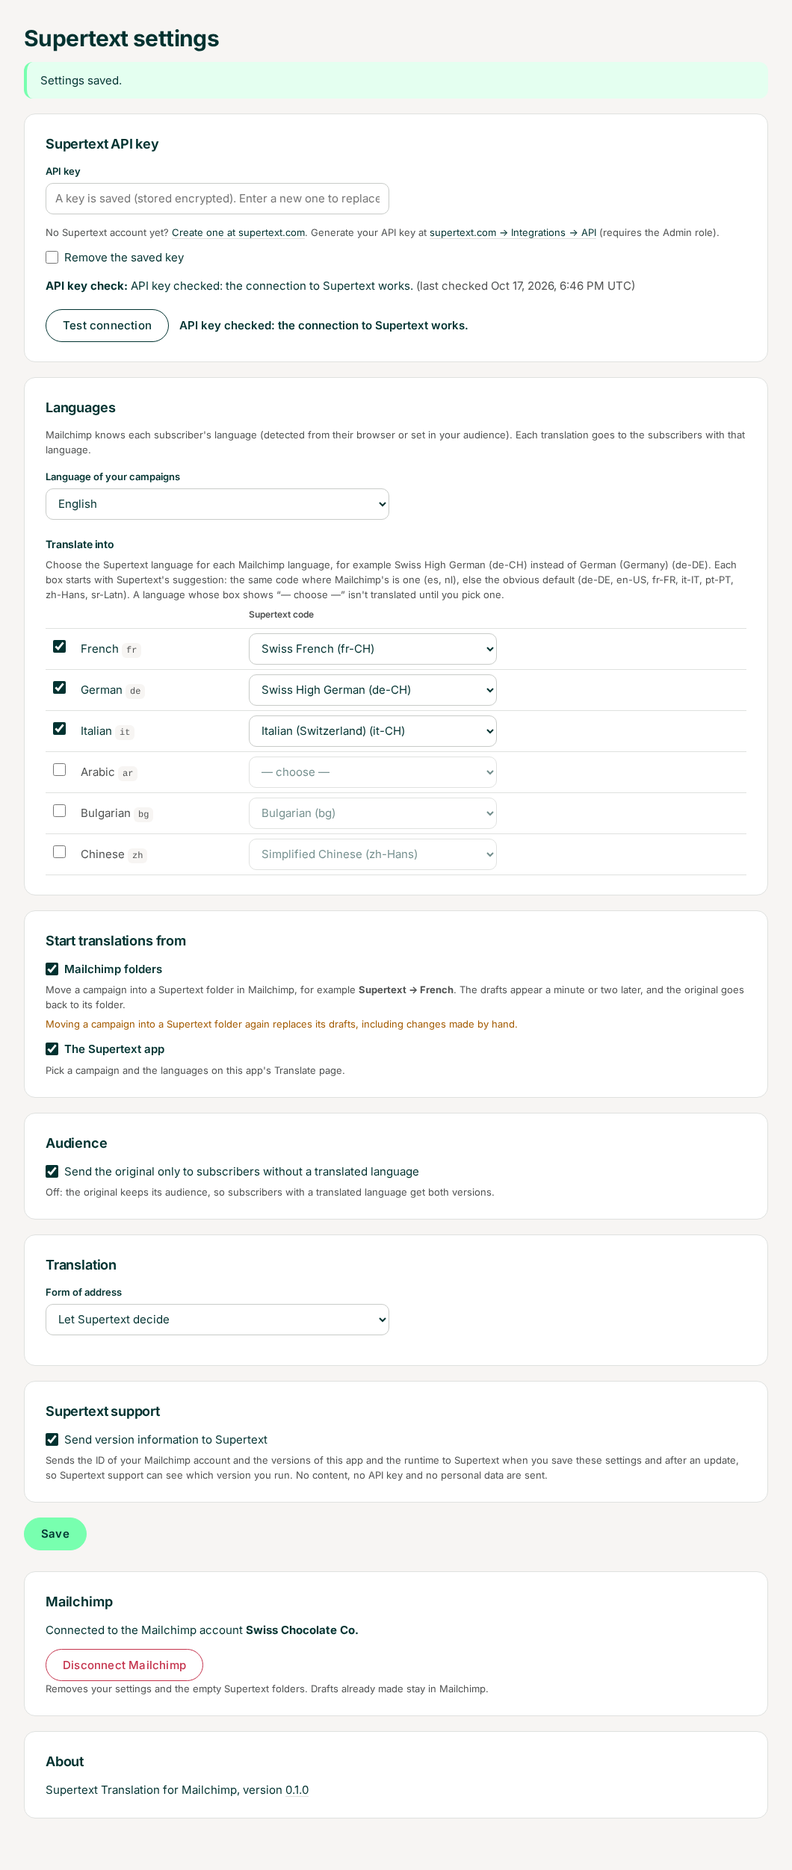
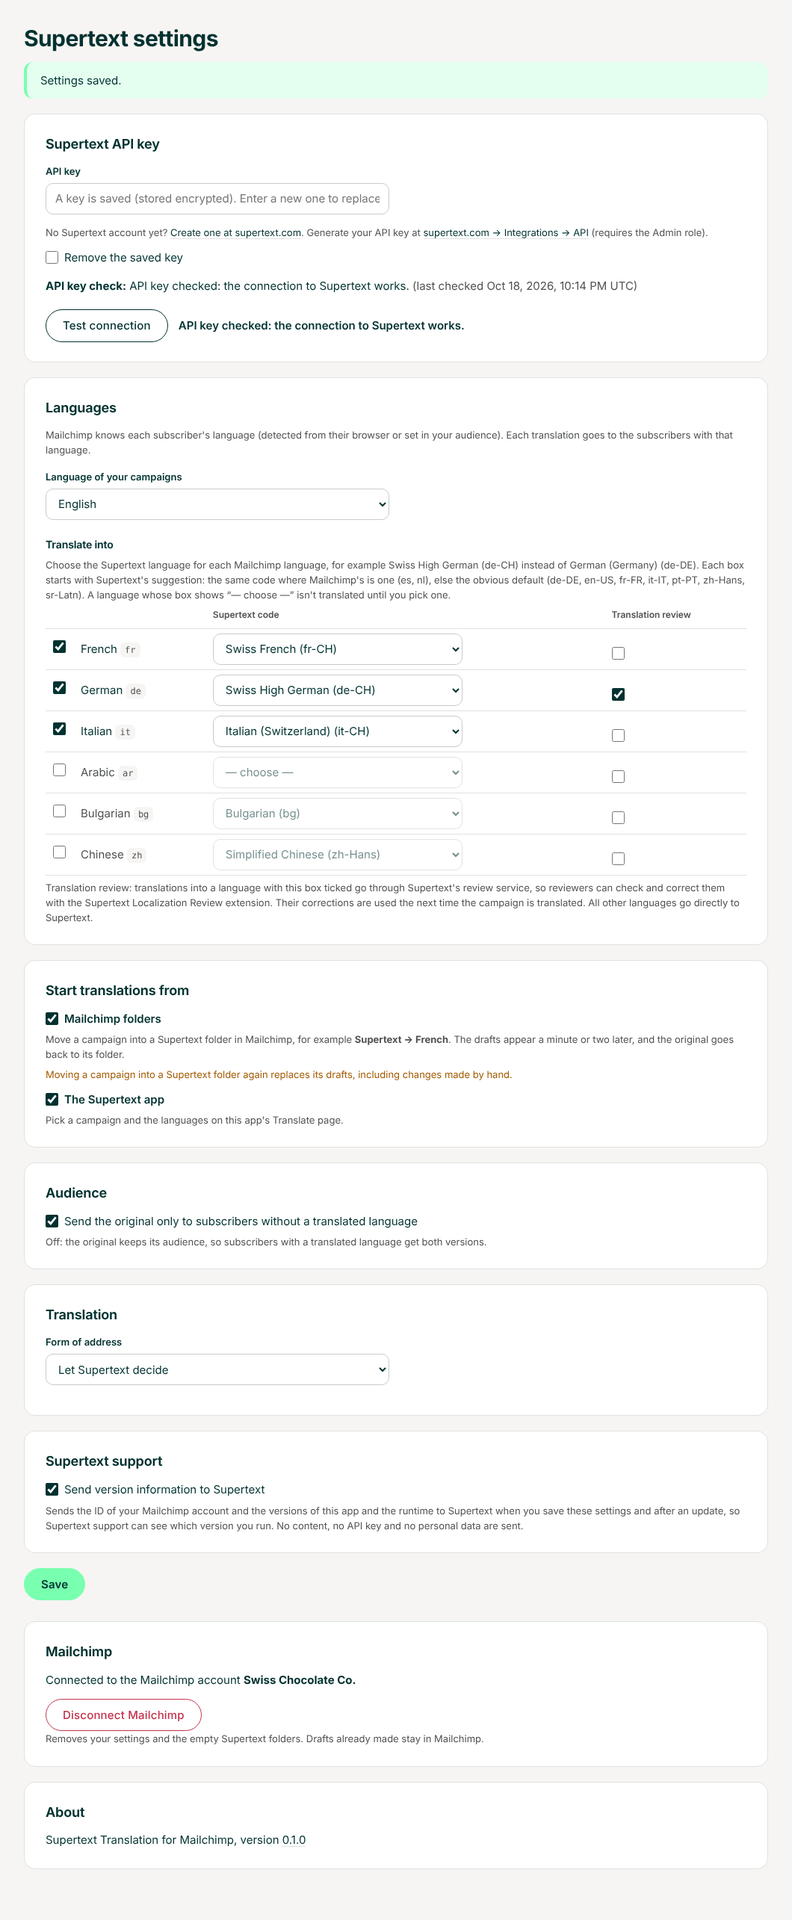
Translation review: on/off per language
Translations into a language with "Translation review" ticked (Settings →
Languages, a checkbox next to the Supertext code) go through Supertext's
review service (the Localization Review translation proxy), where reviewers
correct them; corrections come back into the draft with the next
translation. Other languages keep going directly to Supertext. New server
setting SUPERTEXT_REVIEW_URL (default: Supertext's review service, '' = off
for every account and the column hidden), Account.reviewLanguages (stored in
the account JSON, existing accounts start with review off), a second SDK
client per account (SupertextClient.forReview) with the same key, timeouts,
fetch and User-Agent; key check, reports and translation files stay direct.
Strings in en/de/fr/it, tests, docs and the settings screenshot.

Claude-Session: https://claude.ai/code/session_01EnSTWcWHurd9UcMU2SVApV

diff --git a/tests/supertext.test.ts b/tests/supertext.test.ts
@@ -1,5 +1,6 @@
 import { describe, expect, it } from 'vitest';
-import { fromSdk, SupertextClient } from '../src/supertext/client.js';
+import { fromSdk, REVIEW_URL, SupertextClient } from '../src/supertext/client.js';
+import { loadConfig } from '../src/config.js';
 import { SupertextError as SdkError } from 'supertext-sdk/v1';
 
 // The protocol itself is tested in the SDK repository; here only the app's layer.
@@ -64,5 +65,63 @@ describe('the app layer over the Supertext SDK', () => {
       .catch((e: unknown) => e)) as { code: string; params: Record<string, string> };
     expect(error.code).toBe('languagePair');
     expect(error.params).toEqual({ source: 'en', target: 'xx-XX' });
+  });
+
+  describe('Translation review', () => {
+    /** A fake Supertext that records every call (method and URL) and translates "Hello". */
+    const recorder = () => {
+      const calls: string[] = [];
+      let html = '';
+      const fetchFn = (async (url: string, init: RequestInit) => {
+        calls.push(`${init.method ?? 'GET'} ${url}`);
+        const headers = init.headers as Record<string, string>;
+        if (init.method === 'POST') {
+          const form = await new Request(url, { method: 'POST', body: init.body, headers }).formData();
+          html = await (form.get('file') as File).text();
+          return Response.json({ file_id: 'f1' });
+        }
+        if (url.endsWith('/status')) return Response.json({ status: 'done' });
+        if (url.endsWith('/translation')) return new Response(html.replace(/>Hello</g, '>Hallo<'));
+        return Response.json({});
+      }) as unknown as typeof fetch;
+      return { calls, fetchFn };
+    };
+
+    it('sends a review language to the review service (upload, status, download, delete) and the others directly', async () => {
+      const { calls, fetchFn } = recorder();
+      const client = new SupertextClient({ apiKey: 'k', endpoint: 'https://api.test/v1/', reviewEndpoint: 'https://review.test/v1/', fetch: fetchFn });
+      const review = client.forReview(true);
+      expect(review).not.toBe(client);
+      expect(client.forReview(true)).toBe(review); // created once
+      expect(client.forReview(false)).toBe(client);
+
+      expect(await review.translateSegments(['Hello'], { targetLanguage: 'de-CH', sourceLanguage: 'en' })).toEqual(['Hallo']);
+      expect(calls.length).toBeGreaterThanOrEqual(4);
+      expect(calls.every((call) => call.includes('https://review.test/v1/'))).toBe(true);
+      for (const step of [/^POST .*\/translate\/ai\/file$/, /^GET .*\/status$/, /^GET .*\/translation$/, /^DELETE /]) {
+        expect(calls.some((call) => step.test(call))).toBe(true);
+      }
+
+      calls.length = 0;
+      await client.translateSegments(['Hello'], { targetLanguage: 'fr-CH', sourceLanguage: 'en' });
+      expect(calls.length).toBeGreaterThanOrEqual(4);
+      expect(calls.every((call) => call.includes('https://api.test/v1/'))).toBe(true);
+    });
+
+    it('is off without a review URL or when it is the API URL', () => {
+      const client = new SupertextClient({ apiKey: 'k', endpoint: 'https://api.test/v1/', reviewEndpoint: '' });
+      expect(client.forReview(true)).toBe(client);
+      const same = new SupertextClient({ apiKey: 'k', endpoint: 'https://api.test/v1', reviewEndpoint: 'https://api.test/v1/' });
+      expect(same.forReview(true)).toBe(same);
+      const live = new SupertextClient({ apiKey: 'k', reviewEndpoint: 'https://api.supertext.com/v1/' });
+      expect(live.forReview(true)).toBe(live);
+    });
+
+    it("defaults to Supertext's review service; SUPERTEXT_REVIEW_URL='' turns it off", () => {
+      expect(REVIEW_URL).toBe('https://localizationreview-production.up.railway.app/v1/');
+      expect(loadConfig({}).reviewUrl).toBe(REVIEW_URL);
+      expect(loadConfig({ SUPERTEXT_REVIEW_URL: '' }).reviewUrl).toBe('');
+      expect(loadConfig({ SUPERTEXT_REVIEW_URL: 'https://review.test/v1/' }).reviewUrl).toBe('https://review.test/v1/');
+    });
   });
 });

diff --git a/src/supertext/client.ts b/src/supertext/client.ts
@@ -6,13 +6,22 @@
  */
 
 import { LocalizedError, type MessageParams } from '../i18n/error.js';
-import { SupertextClient as SdkClient, SupertextError as SdkError, type ApiKeyCheck, type FetchLike } from 'supertext-sdk/v1';
+import { LIVE_BASE_URL, SupertextClient as SdkClient, SupertextError as SdkError, type ApiKeyCheck, type FetchLike } from 'supertext-sdk/v1';
 import { VERSION } from '../version.js';
 
 export { retryDelayMs } from 'supertext-sdk/v1';
 
 /** The User-Agent suffix of every Supertext request (the GitHub repository name and version). */
 export const USER_AGENT = `Mailchimp-Supertext-Translation/${VERSION || 'dev'}`;
+
+/**
+ * Supertext's review service (the translation proxy of Supertext Localization Review). It speaks
+ * the same API v1 and forwards to the live Supertext API with the account's key, keeping every
+ * translation so reviewers can correct them; corrections come back with the next translation.
+ * Used for languages with *Translation review* on (Settings → Languages). SUPERTEXT_REVIEW_URL
+ * replaces it ('' = review off for every language).
+ */
+export const REVIEW_URL = 'https://localizationreview-production.up.railway.app/v1/';
 
 /** `more`: formal address (Sie, vous, Lei). `less`: informal (du, tu). `default`: Supertext decides. */
 export type Politeness = 'default' | 'more' | 'less';
@@ -23,6 +32,8 @@ export interface ClientOptions {
   endpoint?: string;
   pollIntervalMs?: number;
   pollTimeoutMs?: number;
+  /** The review service for languages with Translation review on ('' or unset = none). */
+  reviewEndpoint?: string;
   /** Injected for tests. */
   fetch?: typeof fetch;
   /** Injected for tests. */
@@ -51,11 +62,14 @@ export class SupertextError extends LocalizedError {
 
 export class SupertextClient {
   private readonly client: SdkClient;
+  private readonly options: ClientOptions;
+  private reviewClient?: SupertextClient;
 
   constructor(options: ClientOptions) {
     if (!options.apiKey?.trim()) {
       throw new SupertextError('No Supertext API key configured.', 'noApiKey');
     }
+    this.options = options;
     this.client = new SdkClient(options.apiKey, {
       baseUrl: options.endpoint || undefined,
       pollIntervalMs: options.pollIntervalMs,
@@ -64,6 +78,21 @@ export class SupertextClient {
       fetch: options.fetch as FetchLike | undefined,
       sleep: options.sleep,
     });
+  }
+
+  /**
+   * The client for one target language: the review service when the language has Translation
+   * review on (same key, timeouts, transport and User-Agent; created once), else this one.
+   * Without a review URL, or with the same URL as the API, always this one. A document is
+   * submitted, polled, downloaded and deleted by the same client (translateSegments does the
+   * whole round trip), so a job is always collected where it was submitted.
+   */
+  forReview(review: boolean): SupertextClient {
+    const reviewUrl = (this.options.reviewEndpoint ?? '').trim();
+    const same = (a: string, b: string) => a.replace(/\/+$/, '') === b.replace(/\/+$/, '');
+    if (!review || !reviewUrl || same(reviewUrl, this.options.endpoint || LIVE_BASE_URL)) return this;
+    this.reviewClient ??= new SupertextClient({ ...this.options, endpoint: reviewUrl, reviewEndpoint: '' });
+    return this.reviewClient;
   }
 
   /**

diff --git a/tests/flow.test.ts b/tests/flow.test.ts
@@ -260,6 +260,47 @@ describe('translating from the app', () => {
     expect(env.supertext.documents.map((d) => d.target)).toEqual(['de-CH']);
   });
 
+  it('sends languages with Translation review through the review service and the others directly', async () => {
+    const env = setup();
+    await env.connect();
+    await env.saveSettings([...STANDARD_SETTINGS, ['review', 'de']]);
+    expect((await env.store.getAccount(ACCOUNT_ID))!.reviewLanguages).toEqual(['de']);
+    const settings = await (await env.request('/settings')).text();
+    expect(settings).toContain('Translation review');
+    expect(settings).toMatch(/<input type="checkbox" name="review" value="de" checked=""/);
+    expect(settings).toMatch(/<input type="checkbox" name="review" value="fr"(?! checked)/);
+    const { id } = await (await env.api('POST', '/api/jobs', { campaignId: 'c-autumn', languages: ['de', 'fr'] })).json();
+    await env.settle();
+    expect((await env.store.getJob(ACCOUNT_ID, id))!.items.map((item) => [item.language, item.state])).toEqual([
+      ['de', 'created'],
+      ['fr', 'created'],
+    ]);
+    const translate = env.supertextRequests.filter((call) => /\/translate\//.test(call));
+    const review = translate.filter((call) => call.includes('://review.test/v1/'));
+    const direct = translate.filter((call) => call.includes('://supertext.test/v1/'));
+    // de: upload, status, download and delete all at the review service; fr directly at Supertext.
+    for (const calls of [review, direct]) {
+      for (const step of [/^POST .*\/translate\/ai\/file$/, /^GET .*\/status$/, /^GET .*\/translation$/, /^DELETE /]) {
+        expect(calls.some((call) => step.test(call))).toBe(true);
+      }
+    }
+    expect(env.supertext.documents.map((d) => d.target)).toEqual(['de-CH', 'fr-CH']);
+    expect(review.length + direct.length).toBe(translate.length);
+    // The API key check never goes to the review service.
+    expect(env.supertextRequests.filter((call) => call.includes('/features')).every((call) => call.includes('supertext.test'))).toBe(true);
+  });
+
+  it("hides Translation review and sends everything directly when SUPERTEXT_REVIEW_URL is ''", async () => {
+    const env = setup({ SUPERTEXT_REVIEW_URL: '' });
+    await env.connect();
+    await env.saveSettings([...STANDARD_SETTINGS, ['review', 'de']]);
+    expect(await (await env.request('/settings')).text()).not.toContain('name="review"');
+    await env.api('POST', '/api/jobs', { campaignId: 'c-autumn', languages: ['de'] });
+    await env.settle();
+    expect(env.supertextRequests.length).toBeGreaterThan(0);
+    expect(env.supertextRequests.every((call) => call.includes('://supertext.test/'))).toBe(true);
+  });
+
   it('uses the SDK default for a language nobody mapped and preselects it', async () => {
     const env = setup();
     await env.connect();

diff --git a/tests/helpers.ts b/tests/helpers.ts
@@ -11,11 +11,15 @@ export function setup(env: Record<string, string> = {}) {
   const mailchimp = createMailchimpStandin('https://mailchimp.test');
   const supertext = createSupertextStandin();
   const store = new MemoryStore();
+  /** Every request to Supertext or its review service (method and URL), in order. */
+  const supertextRequests: string[] = [];
   const fetchFn = (async (input: string | URL | Request, init?: RequestInit) => {
     const request = new Request(input, init);
     const host = new URL(request.url).host;
     if (host === 'mailchimp.test') return mailchimp.handle(request);
-    if (host === 'supertext.test' || host === 'center.test') return supertext.handle(request);
+    if (host === 'supertext.test' || host === 'review.test') supertextRequests.push(`${request.method} ${request.url}`);
+    // review.test: the review service (it speaks the same API, so the stand-in answers it too).
+    if (host === 'supertext.test' || host === 'review.test' || host === 'center.test') return supertext.handle(request);
     throw new Error(`Unexpected request to ${request.url}`);
   }) as typeof fetch;
   const config = loadConfig({
@@ -26,6 +30,7 @@ export function setup(env: Record<string, string> = {}) {
     SESSION_SECRET: 'session-secret',
     SUPERTEXT_API_ENDPOINT: 'https://supertext.test/v1/',
     SUPERTEXT_API_KEY: 'server-key',
+    SUPERTEXT_REVIEW_URL: 'https://review.test/v1/',
     // Version reports go to the stand-in (supertext.reports), never to the live Commando Center.
     SUPERTEXT_REPORT_URL: 'https://center.test/api/v1/report',
     FOLDER_POLL_SECONDS: '0',
@@ -95,7 +100,7 @@ export function setup(env: Record<string, string> = {}) {
   const clearCookies = () => {
     cookies = {};
   };
-  return { app, mailchimp, supertext, store, config, request, connect, csrf, api, saveSettings, settle, onJob, fetchFn, clearCookies };
+  return { app, mailchimp, supertext, supertextRequests, store, config, request, connect, csrf, api, saveSettings, settle, onJob, fetchFn, clearCookies };
 }
 
 /** The usual settings: German and French, folders and app, original limited. */

diff --git a/src/views/settings.tsx b/src/views/settings.tsx
@@ -62,6 +62,8 @@ export interface SettingsPageProps {
   reportsEnabled: boolean;
   /** SUPERTEXT_VERSION_REPORTS decides, so the checkbox can't be changed. */
   reportsFixed: boolean;
+  /** A review service is configured (SUPERTEXT_REVIEW_URL isn't ''): the Translation review column is shown. */
+  reviewAvailable: boolean;
   saved?: boolean;
   invalidCodes?: string;
   foldersError?: string;
@@ -174,6 +176,7 @@ export function SettingsPage(props: SettingsPageProps) {
                 <th></th>
                 <th></th>
                 <th>{t.t('settings.languages.code')}</th>
+                {props.reviewAvailable && <th>{t.t('settings.languages.review')}</th>}
               </tr>
             </thead>
             <tbody>
@@ -209,11 +212,26 @@ export function SettingsPage(props: SettingsPageProps) {
                         ))}
                       </select>
                     </td>
+                    {props.reviewAvailable && (
+                      <td class="review">
+                        <label class="inline">
+                          <input
+                            type="checkbox"
+                            name="review"
+                            value={code}
+                            checked={account.reviewLanguages.includes(code)}
+                            aria-label={`${t.t('settings.languages.review')}: ${languageName(code, t.locale)}`}
+                          />
+                          <span class="review-label">{t.t('settings.languages.review')}</span>
+                        </label>
+                      </td>
+                    )}
                   </tr>
                 );
               })}
             </tbody>
           </table>
+          {props.reviewAvailable && <p class="help">{t.t('settings.languages.reviewHint')}</p>}
         </section>
 
         <section class="card">

diff --git a/public/app.css b/public/app.css
@@ -131,6 +131,8 @@ a.badge.done:hover { text-decoration: none; background: var(--mint-hover); }
 .codes tr.other select { opacity: .55; }
 .codes tr.chosen.missing select { border-color: var(--red); }
 .codes td code.muted { font-size: 12px; color: var(--muted); }
+.codes td.review { text-align: center; }
+.codes td.review .review-label { display: none; }
 #test-result.ok { color: var(--text); font-weight: 600; }
 #test-result.failed { color: var(--red); }
 .about p, .connection p { margin: 0; }
@@ -164,12 +166,14 @@ body { overflow-x: hidden; }
   .language { width: 100%; }
   /* Languages table: checkbox and name, the Supertext code below. */
   .codes thead { display: none; }
-  .codes tr { display: grid; grid-template-columns: 32px 1fr; grid-template-areas: "check name" "check code"; column-gap: 8px; row-gap: 6px; align-items: center; padding: 10px 0; border-bottom: 1px solid var(--line); }
+  .codes tr { display: grid; grid-template-columns: 32px 1fr; grid-template-areas: "check name" "check code" "check review"; column-gap: 8px; row-gap: 6px; align-items: center; padding: 10px 0; border-bottom: 1px solid var(--line); }
   .codes tr:last-child { border-bottom: 0; }
   .codes td { padding: 0; border: 0; }
   .codes td:nth-child(1) { grid-area: check; align-self: start; padding-top: 3px; }
   .codes td:nth-child(2) { grid-area: name; }
   .codes td:nth-child(3) { grid-area: code; }
+  .codes td:nth-child(4) { grid-area: review; text-align: left; }
+  .codes td.review .review-label { display: inline; font-size: 14px; }
   .codes select { max-width: none; font-size: 15px; min-height: 40px; }
   /* The campaign table scrolls inside its card instead of widening the page. */
   table.items { display: block; overflow-x: auto; -webkit-overflow-scrolling: touch; }

diff --git a/src/app.ts b/src/app.ts
@@ -44,6 +44,7 @@ export function services(deps: AppDeps) {
     new SupertextClient({
       apiKey: account.apiKey || config.supertextApiKey,
       endpoint: config.supertextEndpoint || undefined,
+      reviewEndpoint: config.reviewUrl,
       fetch: deps.fetch,
     });
   const reporting = new Reporting({ config, store: deps.store, fetch: deps.fetch, onTask: deps.onJob });
@@ -376,6 +377,7 @@ export function createApp(deps: AppDeps) {
           serverKey: Boolean(config.supertextApiKey),
           reportsEnabled: reporting.enabled(session.account),
           reportsFixed: reporting.fixedByEnvironment,
+          reviewAvailable: Boolean(config.reviewUrl),
           saved: c.req.query('saved') === '1',
           invalidCodes: c.req.query('invalid') || undefined,
           foldersError: c.req.query('folders') || undefined,
@@ -418,6 +420,8 @@ export function createApp(deps: AppDeps) {
       else invalid.push(code);
     }
     account.languageCodes = codes;
+    const review = form.review === undefined ? [] : Array.isArray(form.review) ? form.review : [form.review];
+    account.reviewLanguages = [...new Set(review.map(String))].filter((code) => isLanguage(code));
     if (!reporting.fixedByEnvironment) account.versionReports = field('versionReports') === '1';
     account.folderTrigger = field('folderTrigger') === '1';
     account.appTrigger = field('appTrigger') === '1';

diff --git a/tests/docs/screenshots.ts b/tests/docs/screenshots.ts
@@ -34,6 +34,8 @@ async function main() {
   const mailchimpUrl = await listen((request) => mailchimp.handle(request));
   mailchimp.apiBase = mailchimpUrl;
   const supertextUrl = await listen((request) => supertext.handle(request));
+  // The review service speaks the same API: a second address of the same stand-in, never the live one.
+  const reviewUrl = await listen((request) => supertext.handle(request));
   const port = 8790;
   const appUrl = `http://127.0.0.1:${port}`;
   const app = createApp({
@@ -43,6 +45,7 @@ async function main() {
       MAILCHIMP_CLIENT_SECRET: 'screenshots-secret',
       MAILCHIMP_LOGIN_BASE: mailchimpUrl,
       SUPERTEXT_API_ENDPOINT: `${supertextUrl}/v1/`,
+      SUPERTEXT_REVIEW_URL: `${reviewUrl}/v1/`,
       // Version reports go to the stand-in, never to the live Commando Center.
       SUPERTEXT_REPORT_URL: `${supertextUrl}/report`,
       FOLDER_POLL_SECONDS: '0',
@@ -72,6 +75,7 @@ async function main() {
   await page.selectOption('select[name="code:de"]', 'de-CH');
   await page.selectOption('select[name="code:fr"]', 'fr-CH');
   await page.selectOption('select[name="code:it"]', 'it-CH');
+  await page.check('input[name="review"][value="de"]');
   await page.click('button.primary');
   await page.waitForSelector('.notice.success');
   await page.click('#test-button');

diff --git a/src/config.ts b/src/config.ts
@@ -1,3 +1,5 @@
+import { REVIEW_URL } from './supertext/client.js';
+
 /** Settings from environment variables (Railway variables in production). */
 export interface Config {
   port: number;
@@ -15,6 +17,11 @@ export interface Config {
   /** Default Supertext API key for accounts that haven't entered their own (the demo account). */
   supertextApiKey: string;
   supertextEndpoint: string;
+  /**
+   * SUPERTEXT_REVIEW_URL: the review service for languages with Translation review on
+   * (default: Supertext's review service, REVIEW_URL; '' = review off for every language).
+   */
+  reviewUrl: string;
   databaseUrl: string;
   /** Key for encrypting stored tokens and API keys; falls back to a key derived from the client secret. */
   encryptionKey: string;
@@ -38,6 +45,7 @@ export function loadConfig(env: NodeJS.ProcessEnv = process.env): Config {
     sessionSecret: env.SESSION_SECRET ?? '',
     supertextApiKey: env.SUPERTEXT_API_KEY ?? '',
     supertextEndpoint: env.SUPERTEXT_API_ENDPOINT ?? '',
+    reviewUrl: (env.SUPERTEXT_REVIEW_URL ?? REVIEW_URL).trim(),
     databaseUrl: env.DATABASE_URL ?? '',
     encryptionKey: env.APP_ENCRYPTION_KEY ?? '',
     versionReports: env.SUPERTEXT_VERSION_REPORTS,

diff --git a/src/i18n/fr.ts b/src/i18n/fr.ts
@@ -153,6 +153,8 @@ export const fr: Messages = {
   'settings.style.more': 'Formelle (p. ex. « vous »)',
   'settings.style.less': 'Informelle (p. ex. « tu »)',
   'settings.languages.choose': "— choisir —",
+  'settings.languages.review': "Révision des traductions",
+  'settings.languages.reviewHint': "Révision des traductions : les traductions vers une langue cochée passent par le service de révision de Supertext, afin que les réviseurs puissent les vérifier et les corriger avec l’extension Supertext Localization Review. Leurs corrections sont reprises lors de la prochaine traduction de la campagne. Toutes les autres langues vont directement à Supertext.",
   'settings.languages.unmapped': "Ces langues n’ont pas encore de langue Supertext et ne sont traduites qu’une fois que vous en avez choisi une dans leur liste sous Langues : {languages}.",
   'settings.languages.sourceUnsupported': "Supertext ne connaît pas {language} comme langue de vos campagnes. Choisissez sa langue Supertext dans sa liste sous Langues (par exemple anglais (États-Unis) (en-US)) ou laissez Supertext détecter la langue.",
   'settings.keyCheck.label': "Vérification de la clé API :",

diff --git a/src/i18n/de.ts b/src/i18n/de.ts
@@ -152,6 +152,8 @@ export const de: Messages = {
   'settings.style.more': 'Formell (z. B. «Sie»)',
   'settings.style.less': 'Informell (z. B. «du»)',
   'settings.languages.choose': "— auswählen —",
+  'settings.languages.review': "Übersetzungsprüfung",
+  'settings.languages.reviewHint': "Übersetzungsprüfung: Übersetzungen in eine Sprache mit diesem Häkchen laufen über den Prüfdienst von Supertext, damit Prüferinnen und Prüfer sie mit der Erweiterung Supertext Localization Review kontrollieren und korrigieren können. Ihre Korrekturen werden beim nächsten Übersetzen der Kampagne übernommen. Alle anderen Sprachen gehen direkt an Supertext.",
   'settings.languages.unmapped': "Diese Sprachen haben noch keine Supertext-Sprache und werden erst übersetzt, wenn Sie unter Sprachen in ihrem Auswahlfeld eine wählen: {languages}.",
   'settings.languages.sourceUnsupported': "Supertext kennt {language} als Sprache Ihrer Kampagnen nicht. Wählen Sie unter Sprachen in ihrem Auswahlfeld die Supertext-Sprache (zum Beispiel Englisch (Vereinigte Staaten) (en-US)) oder lassen Sie Supertext die Sprache erkennen.",
   'settings.keyCheck.label': "Prüfung des API-Schlüssels:",

diff --git a/src/i18n/it.ts b/src/i18n/it.ts
@@ -150,6 +150,8 @@ export const it: Messages = {
   'settings.style.more': 'Formale (p. es. «Lei»)',
   'settings.style.less': 'Informale (p. es. «tu»)',
   'settings.languages.choose': "— scegliere —",
+  'settings.languages.review': "Revisione delle traduzioni",
+  'settings.languages.reviewHint': "Revisione delle traduzioni: le traduzioni in una lingua con questa casella selezionata passano dal servizio di revisione di Supertext, così i revisori possono controllarle e correggerle con l’estensione Supertext Localization Review. Le loro correzioni vengono riprese alla prossima traduzione della campagna. Tutte le altre lingue vanno direttamente a Supertext.",
   'settings.languages.unmapped': "Queste lingue non hanno ancora una lingua Supertext e vengono tradotte solo dopo che ne avrà scelta una nel loro elenco in Lingue: {languages}.",
   'settings.languages.sourceUnsupported': "Supertext non conosce {language} come lingua delle Sue campagne. Scelga la sua lingua Supertext nel suo elenco in Lingue (per esempio inglese (Stati Uniti) (en-US)) oppure lasci che Supertext riconosca la lingua.",
   'settings.keyCheck.label': "Verifica della chiave API:",
